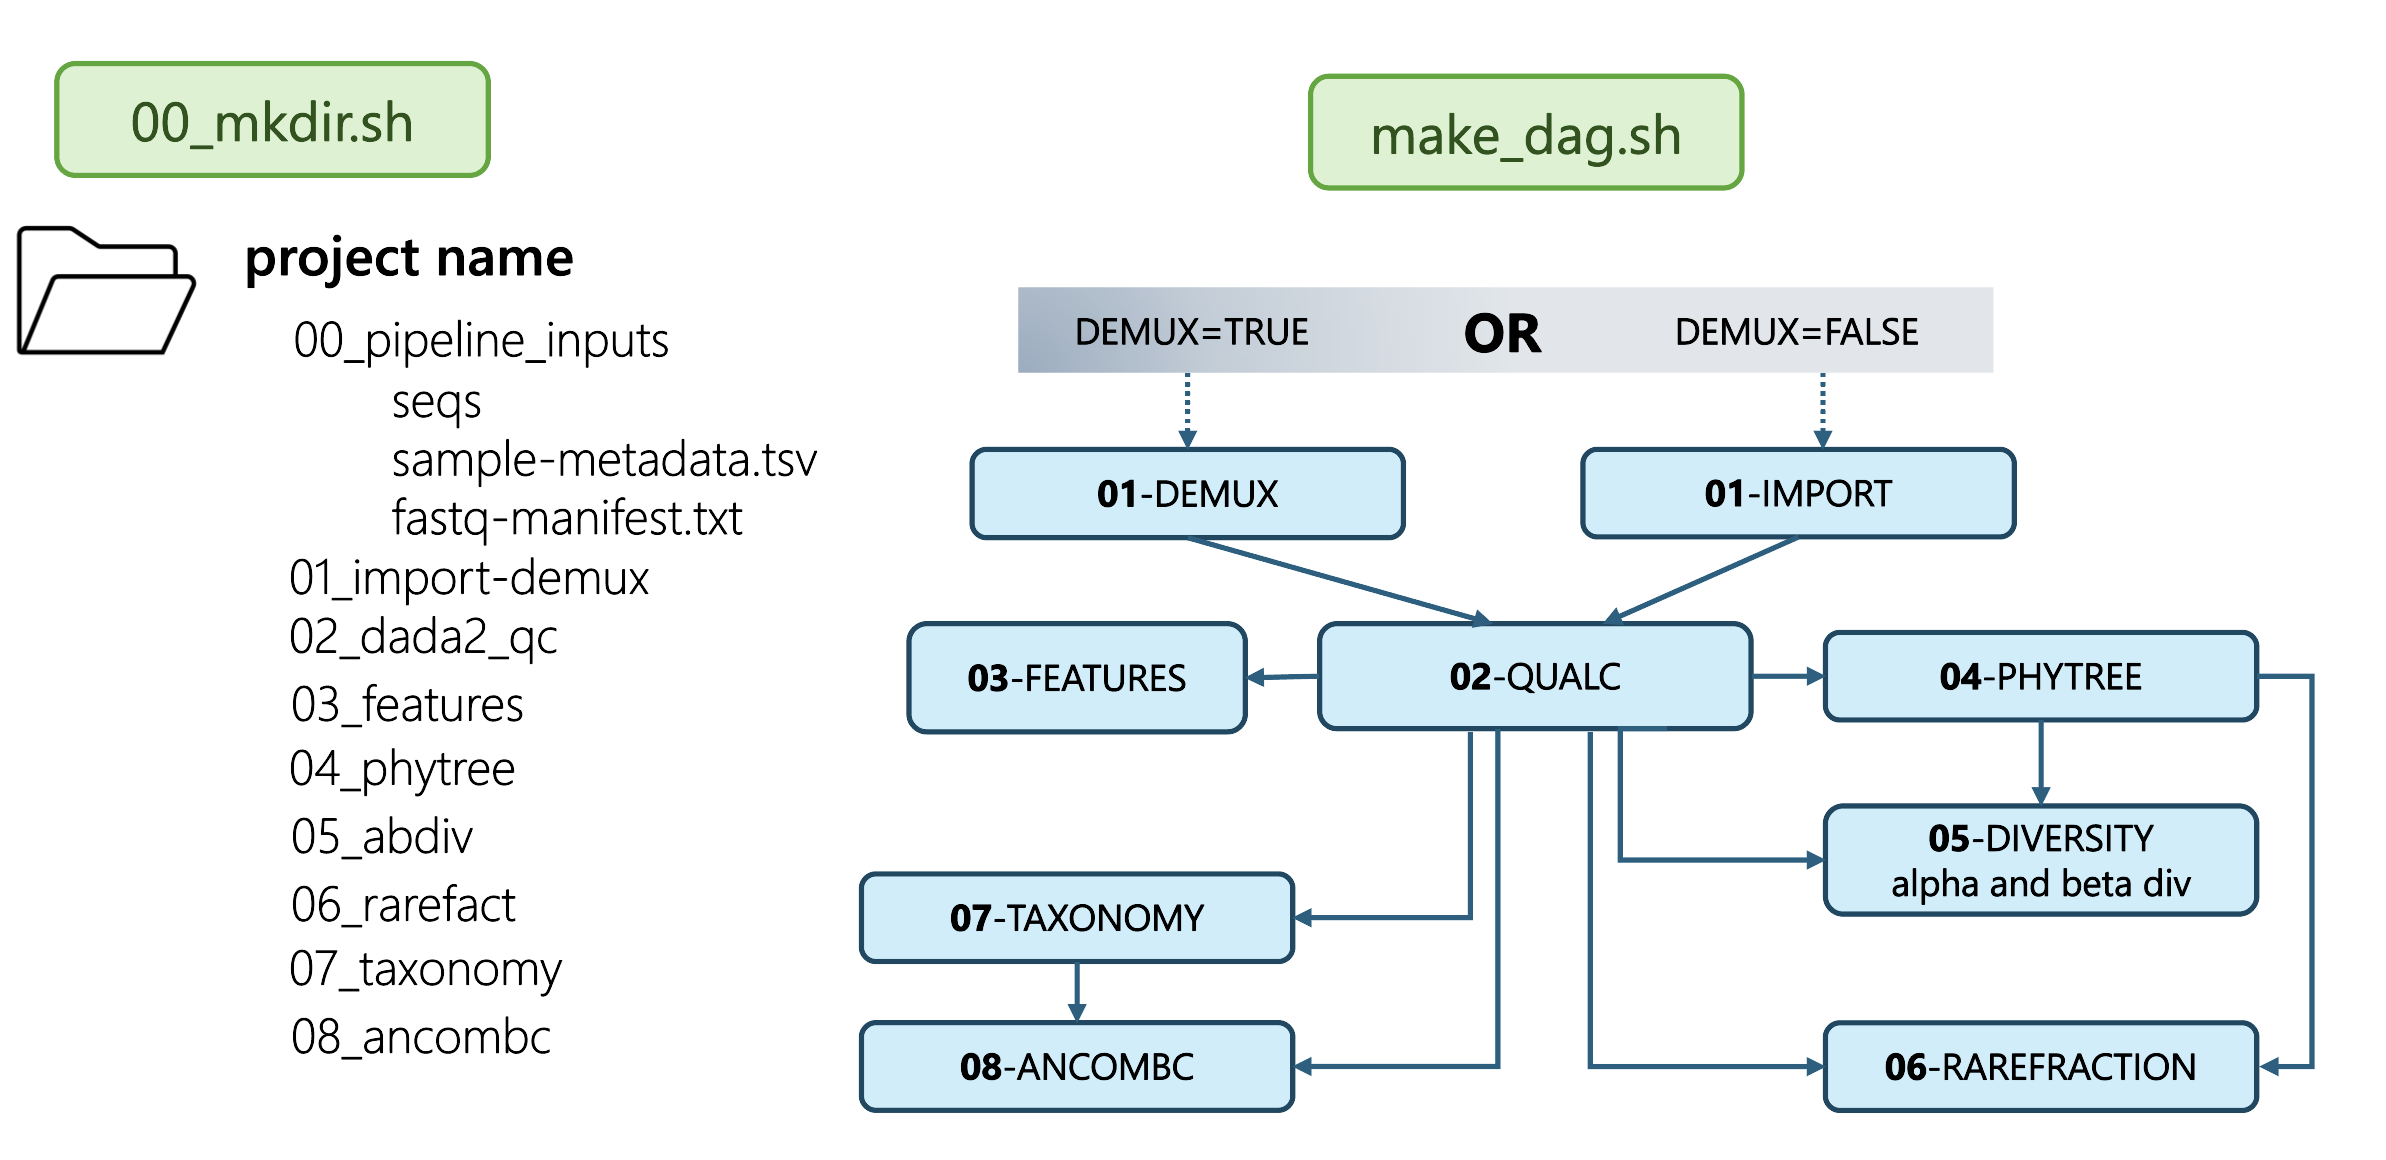
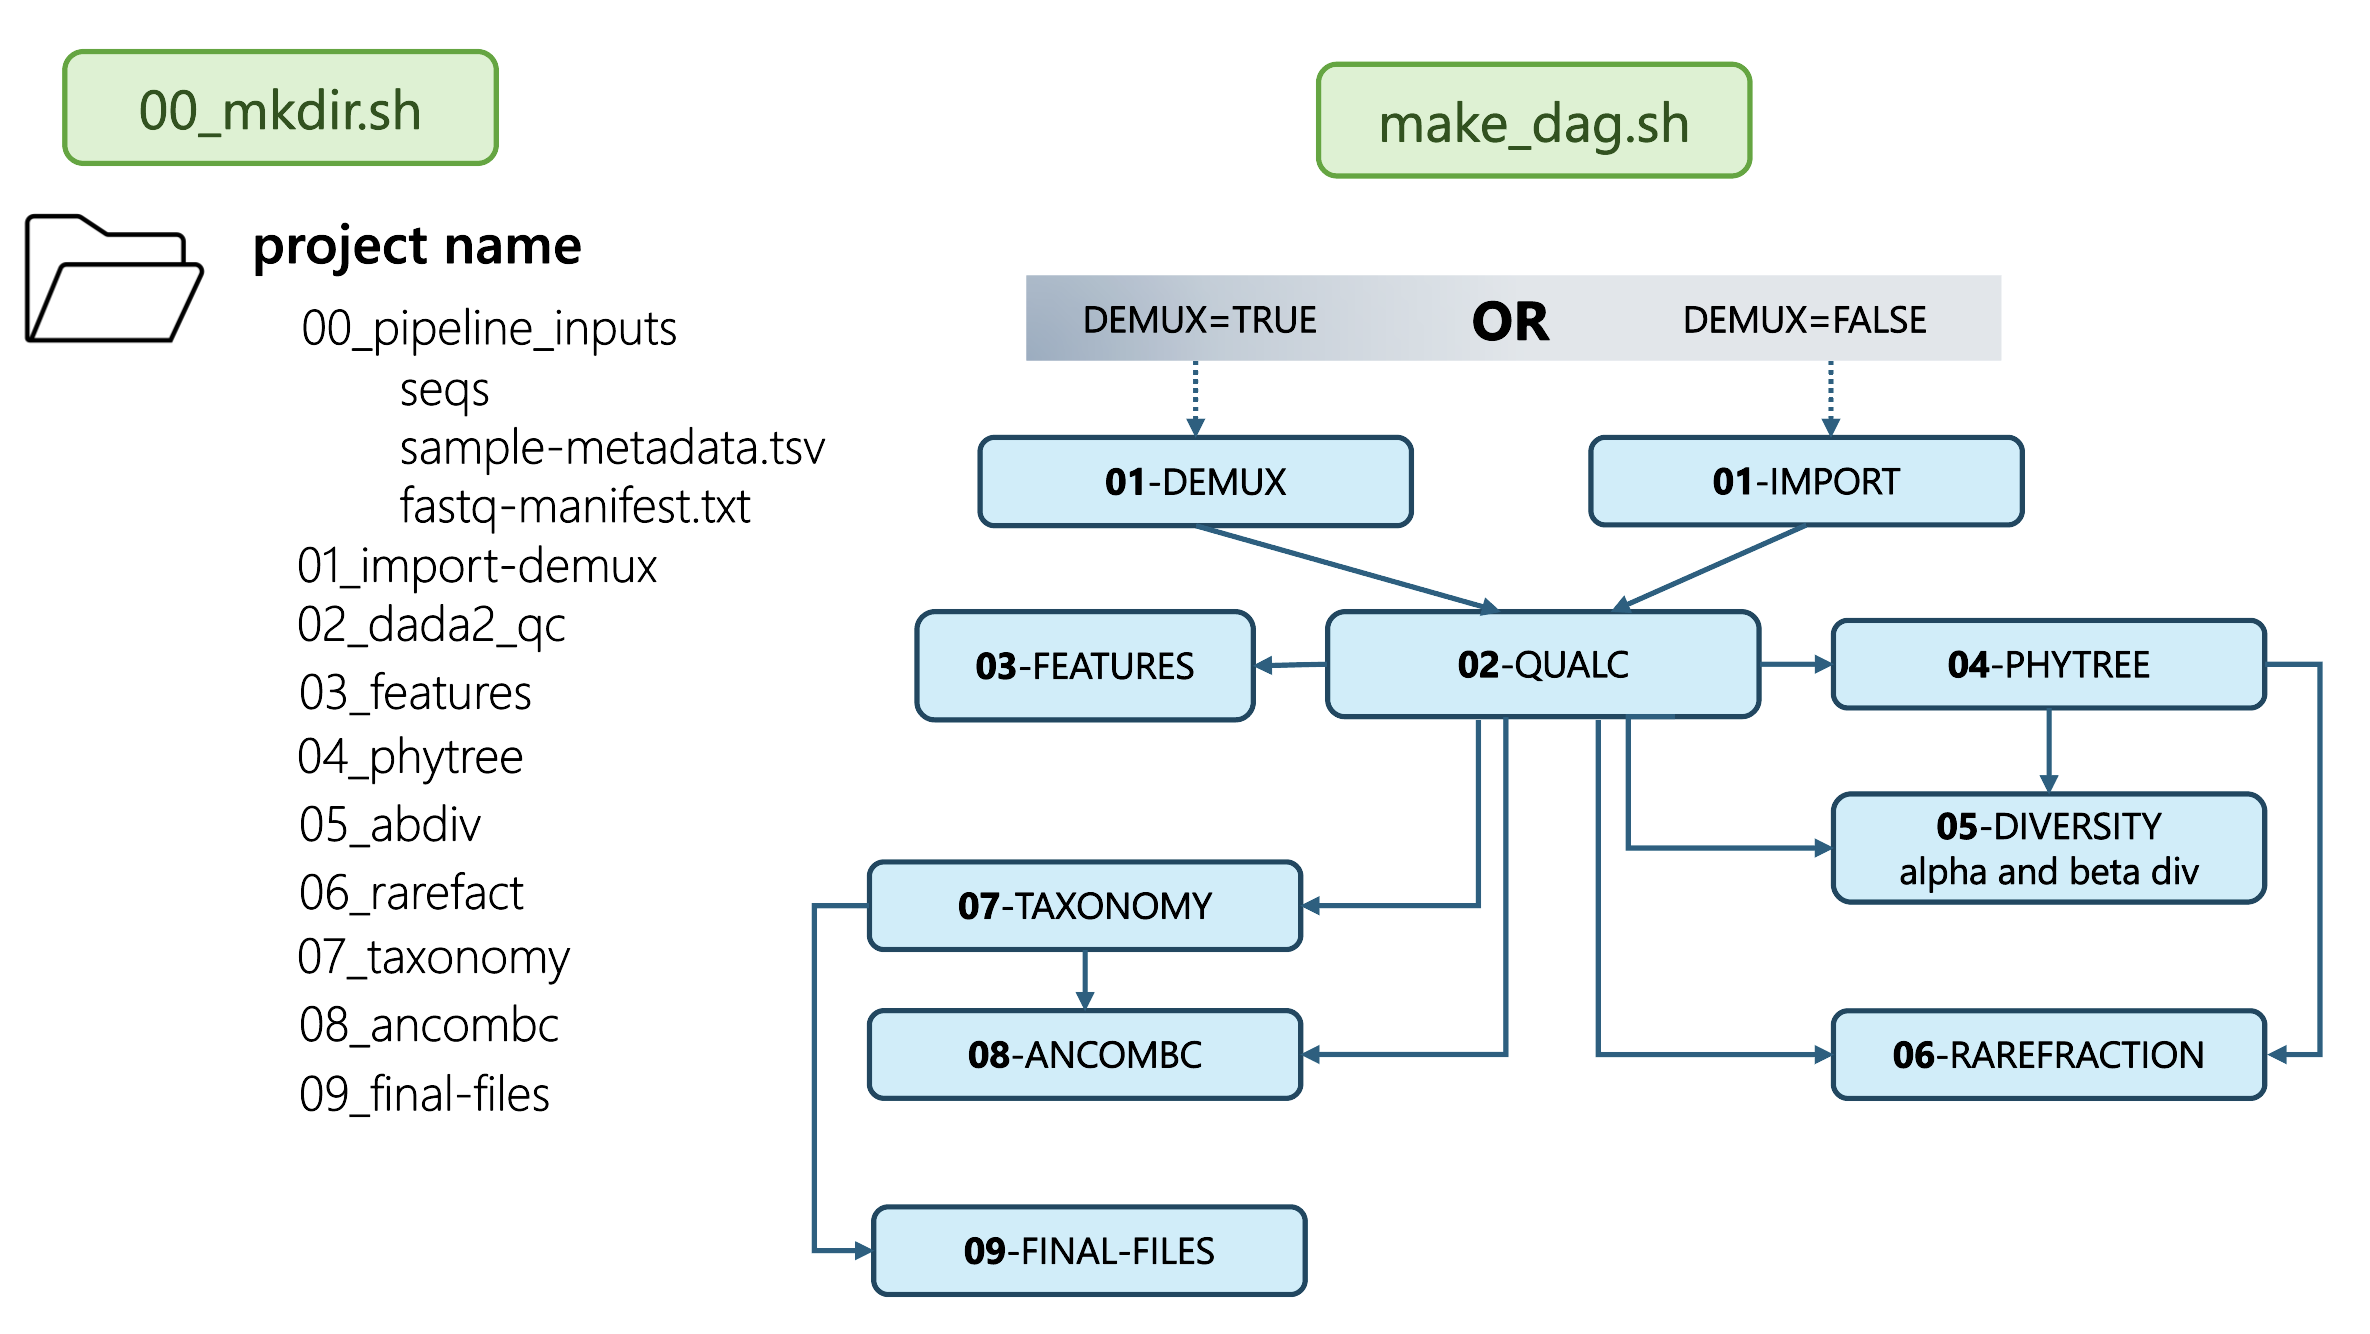
Update figures and the before starting instructions

diff --git a/docs/pages/Instructions/before_starting.md b/docs/pages/Instructions/before_starting.md
@@ -19,14 +19,7 @@ You will need **paired-end reads** (Illumina) corresponding to the 16S rRNA gene
 
 - Already demultiplexed:
 
-Most of the time, sequencing centers will give you this data already **demultiplexed**, meaning that you will get 2 files per samples, labelled like this: `{sample}_R1_001.fastq.gz` and `{sample}_R2_001.fastq.gz`.
-
-Organize them like this:
- ```
- seqs/{sample}_R1_001.fastq.gz
- seqs/{sample}_R2_001.fastq.gz
- etc.
- ```
+Most of the time, sequencing centers will give you this data already **demultiplexed**, meaning that you will get 2 files per samples. Then make a `fastq-manifest.txt` file as shown below to match all input sequncing file names.
 
 
 - Not already demultiplexed:
